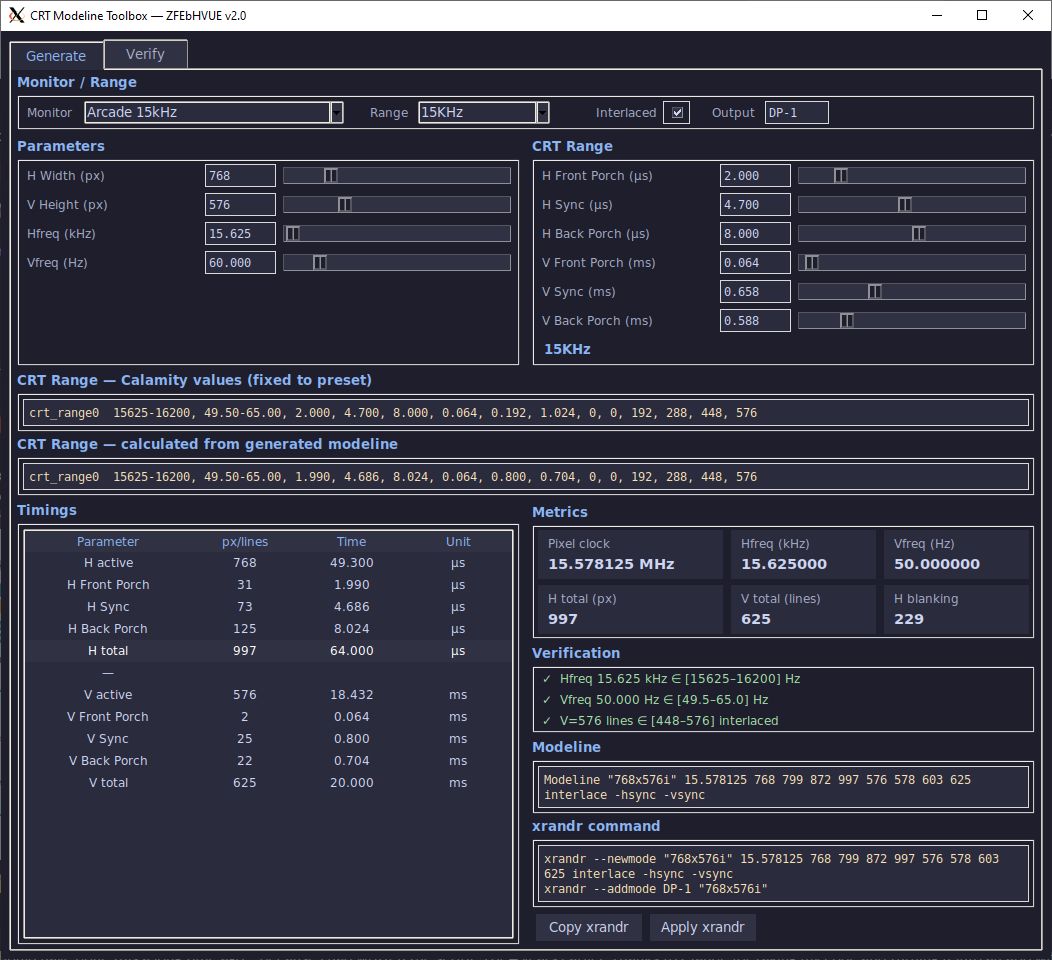
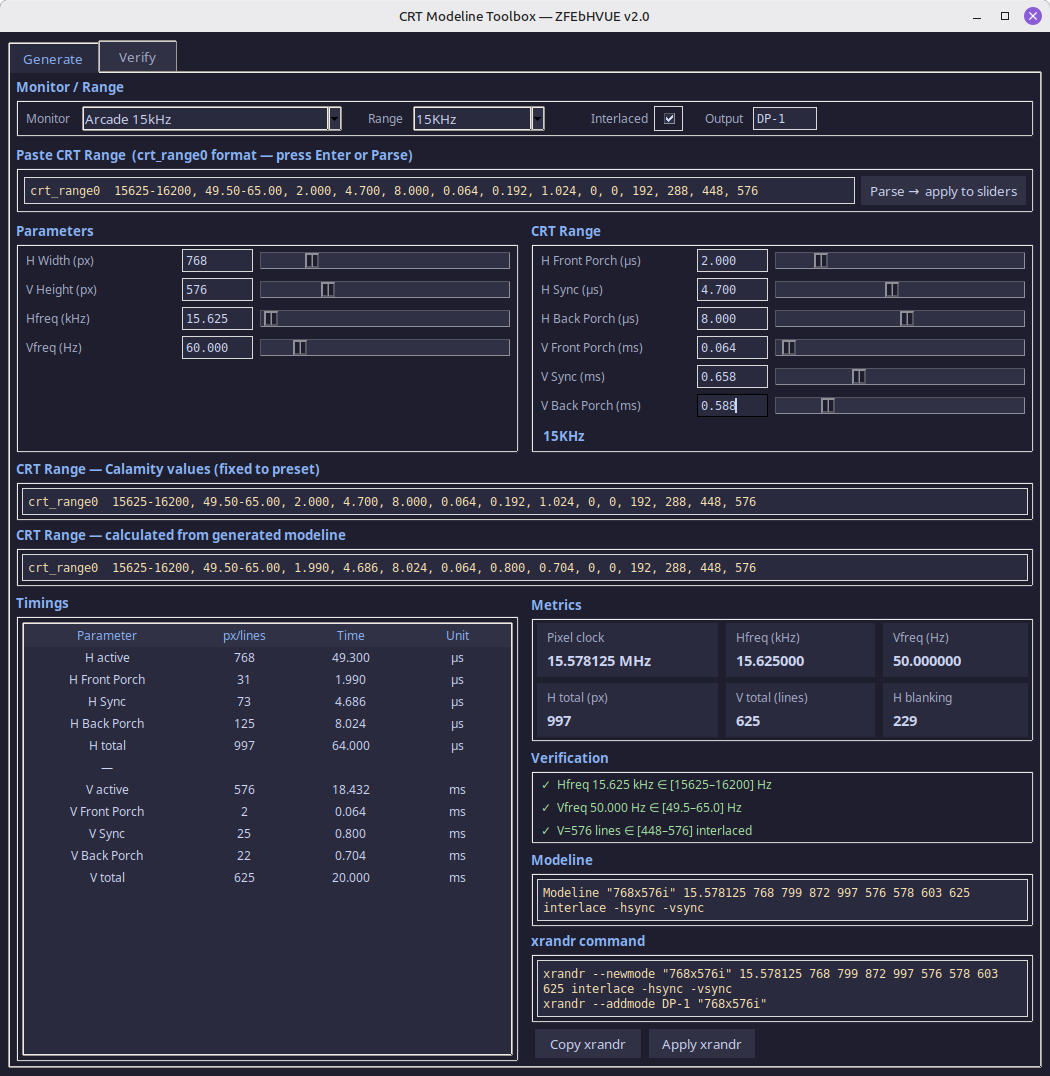
v2.0 - sliders, paste CRT range, all Calamity presets

diff --git a/crt_modeline_toolbox_v1.0.py b/crt_modeline_toolbox_v1.0.py
@@ -585,9 +585,21 @@ class App(tk.Tk):
         self.e_output.bind("<Return>",   lambda e: self._calc_gen())
         self.e_output.bind("<FocusOut>", lambda e: self._calc_gen())
 
+        # ---- Paste CRT Range (own visible row) ----
+        frm_paste_lf = ttk.LabelFrame(parent, text="Paste CRT Range  (crt_range0 format — press Enter or Parse)")
+        frm_paste_lf.grid(row=1, column=0, columnspan=2, padx=6, pady=4, sticky="ew")
+        self.e_crt_paste = tk.Entry(frm_paste_lf, bg=BG2, fg=YELLOW,
+                                     insertbackground=FG, font=FONT_M,
+                                     relief="flat", bd=4)
+        self.e_crt_paste.insert(0, "crt_range0  15625-16200, 49.50-65.00, 2.000, 4.700, 8.000, 0.064, 0.192, 1.024, 0, 0, 192, 288, 448, 576")
+        self.e_crt_paste.pack(side="left", fill="x", expand=True, padx=(6,6), pady=6)
+        self.e_crt_paste.bind("<Return>", lambda e: self._parse_crt_range())
+        ttk.Button(frm_paste_lf, text="Parse →  apply to sliders",
+                   command=self._parse_crt_range).pack(side="left", padx=(0,6), pady=6)
+
         # ---- Parameters sliders (left) ----
         frm_p = ttk.LabelFrame(parent, text="Parameters")
-        frm_p.grid(row=1, column=0, padx=6, pady=4, sticky="nsew")
+        frm_p.grid(row=2, column=0, padx=6, pady=4, sticky="nsew")
 
         self.sw_width  = SliderEntry(frm_p, "H Width (px)",  64, 3840, 1,     is_int=True, fmt="{:.0f}")
         self.sw_height = SliderEntry(frm_p, "V Height (px)", 32, 2160, 1,     is_int=True, fmt="{:.0f}")
@@ -604,7 +616,7 @@ class App(tk.Tk):
 
         # ---- CRT Range sliders (right) ----
         frm_r = ttk.LabelFrame(parent, text="CRT Range")
-        frm_r.grid(row=1, column=1, padx=6, pady=4, sticky="nsew")
+        frm_r.grid(row=2, column=1, padx=6, pady=4, sticky="nsew")
 
         self.sw_hfp = SliderEntry(frm_r, "H Front Porch (µs)", 0.05, 12.0, 0.001)
         self.sw_hs  = SliderEntry(frm_r, "H Sync (µs)",        0.05, 10.0, 0.001)
@@ -623,19 +635,20 @@ class App(tk.Tk):
         self.lbl_range_badge.pack(anchor="w", padx=8, pady=4)
 
         # ---- CRT Range text displays ----
-        frm_cf = ttk.LabelFrame(parent, text="CRT Range — Calamity values (fixed to preset)")
-        frm_cf.grid(row=2, column=0, columnspan=2, padx=6, pady=2, sticky="ew")
-        self.txt_crt_fixed = self._text_ro(frm_cf, height=1, width=90)
+        self.frm_cf = ttk.LabelFrame(parent, text="CRT Range — Calamity values (fixed to preset)")
+        self.frm_cf.grid(row=3, column=0, columnspan=2, padx=6, pady=2, sticky="ew")
+        self.txt_crt_fixed = self._text_ro(self.frm_cf, height=1, width=90)
         self.txt_crt_fixed.pack(fill="x", padx=4, pady=4)
 
         frm_cc = ttk.LabelFrame(parent, text="CRT Range — calculated from generated modeline")
-        frm_cc.grid(row=3, column=0, columnspan=2, padx=6, pady=2, sticky="ew")
+        frm_cc.grid(row=4, column=0, columnspan=2, padx=6, pady=2, sticky="ew")
         self.txt_crt_calc = self._text_ro(frm_cc, height=1, width=90)
         self.txt_crt_calc.pack(fill="x", padx=4, pady=4)
 
         # ---- Timings tree ----
         frm_t = ttk.LabelFrame(parent, text="Timings")
-        frm_t.grid(row=4, column=0, padx=6, pady=4, sticky="nsew")
+        frm_t.grid(row=5, column=0, padx=6, pady=4, sticky="nsew")
+        parent.rowconfigure(5, weight=1)
         cols = ("Parameter", "px/lines", "Time", "Unit")
         self.tree_gen = ttk.Treeview(frm_t, columns=cols, show="headings", height=11)
         for c in cols:
@@ -645,7 +658,7 @@ class App(tk.Tk):
 
         # ---- Results panel ----
         frm_res = ttk.Frame(parent)
-        frm_res.grid(row=4, column=1, padx=6, pady=4, sticky="nsew")
+        frm_res.grid(row=5, column=1, padx=6, pady=4, sticky="nsew")
 
         frm_m = ttk.LabelFrame(frm_res, text="Metrics")
         frm_m.pack(fill="x", pady=2)
@@ -769,6 +782,59 @@ class App(tk.Tk):
     # ==================================================================
     # LOGIC
     # ==================================================================
+    def _parse_crt_range(self):
+        import re
+        raw = self.e_crt_paste.get().strip()
+        # Strip optional "crt_range0" / "crt_range1" prefix
+        raw = re.sub(r'^crt_range\d*\s*', '', raw).strip()
+        parts = [p.strip() for p in raw.split(',')]
+        if len(parts) < 14:
+            messagebox.showerror("Parse error",
+                "Expected format:\n"
+                "crt_range0  hmin-hmax, vfmin-vfmax, hfp, hs, hbp, vfp, vs, vbp, 0, 0, pLmin, pLmax, iLmin, iLmax")
+            return
+        try:
+            hrange        = parts[0].split('-')
+            hmin, hmax    = float(hrange[0]), float(hrange[1])
+            vrange        = parts[1].split('-')
+            vfmin, vfmax  = float(vrange[0]), float(vrange[1])
+            hfp  = float(parts[2])
+            hs   = float(parts[3])
+            hbp  = float(parts[4])
+            vfp  = float(parts[5])
+            vs   = float(parts[6])
+            vbp  = float(parts[7])
+            pLmin = int(float(parts[10]))
+            pLmax = int(float(parts[11]))
+            iLmin = int(float(parts[12]))
+            iLmax = int(float(parts[13]))
+        except (ValueError, IndexError) as e:
+            messagebox.showerror("Parse error", f"Could not parse crt_range:\n{e}")
+            return
+
+        r = {"lb": "custom",
+             "hmin": hmin, "hmax": hmax, "vfmin": vfmin, "vfmax": vfmax,
+             "hfp": hfp, "hs": hs, "hbp": hbp,
+             "vfp": vfp, "vs": vs, "vbp": vbp,
+             "pLmin": pLmin, "pLmax": pLmax, "iLmin": iLmin, "iLmax": iLmax}
+
+        self._current_range = r
+        self.frm_cf.config(text="CRT Range — Custom (pasted)")
+        self.sw_hfp.set_value(hfp)
+        self.sw_hs.set_value(hs)
+        self.sw_hbp.set_value(hbp)
+        self.sw_vfp.set_value(vfp)
+        self.sw_vs.set_value(vs)
+        self.sw_vbp.set_value(vbp)
+        mid = (hmin + hmax) / 2 / 1000
+        self.sw_hfreq.set_value(round(mid, 3))
+        self.lbl_range_badge.config(text="custom")
+        self.cmb_range["values"] = ["custom"]
+        self.cmb_range.set("custom")
+        self._set_text(self.txt_crt_fixed,
+                       fmt_crt_range(r, hfp, hs, hbp, vfp, vs, vbp))
+        self._calc_gen()
+
     def _apply_preset(self):
         name = self.cmb_preset.get()
         p    = PRESETS.get(name)
@@ -800,6 +866,7 @@ class App(tk.Tk):
         self._set_text(self.txt_crt_fixed,
                        fmt_crt_range(r, r["hfp"], r["hs"], r["hbp"],
                                         r["vfp"], r["vs"], r["vbp"]))
+        self.frm_cf.config(text="CRT Range — Calamity values (fixed to preset)")
 
     def _on_range_select(self):
         name = self.cmb_preset.get()